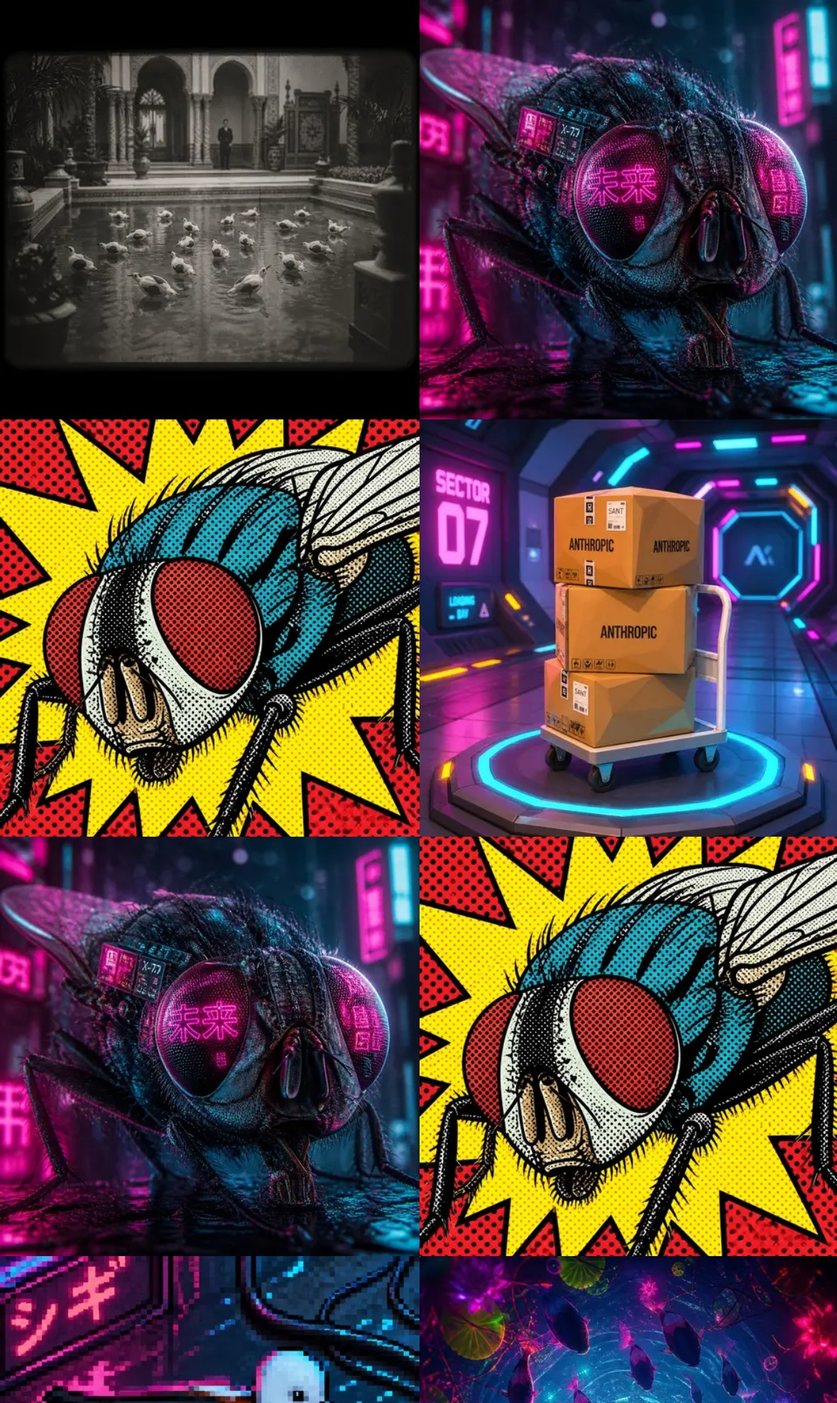
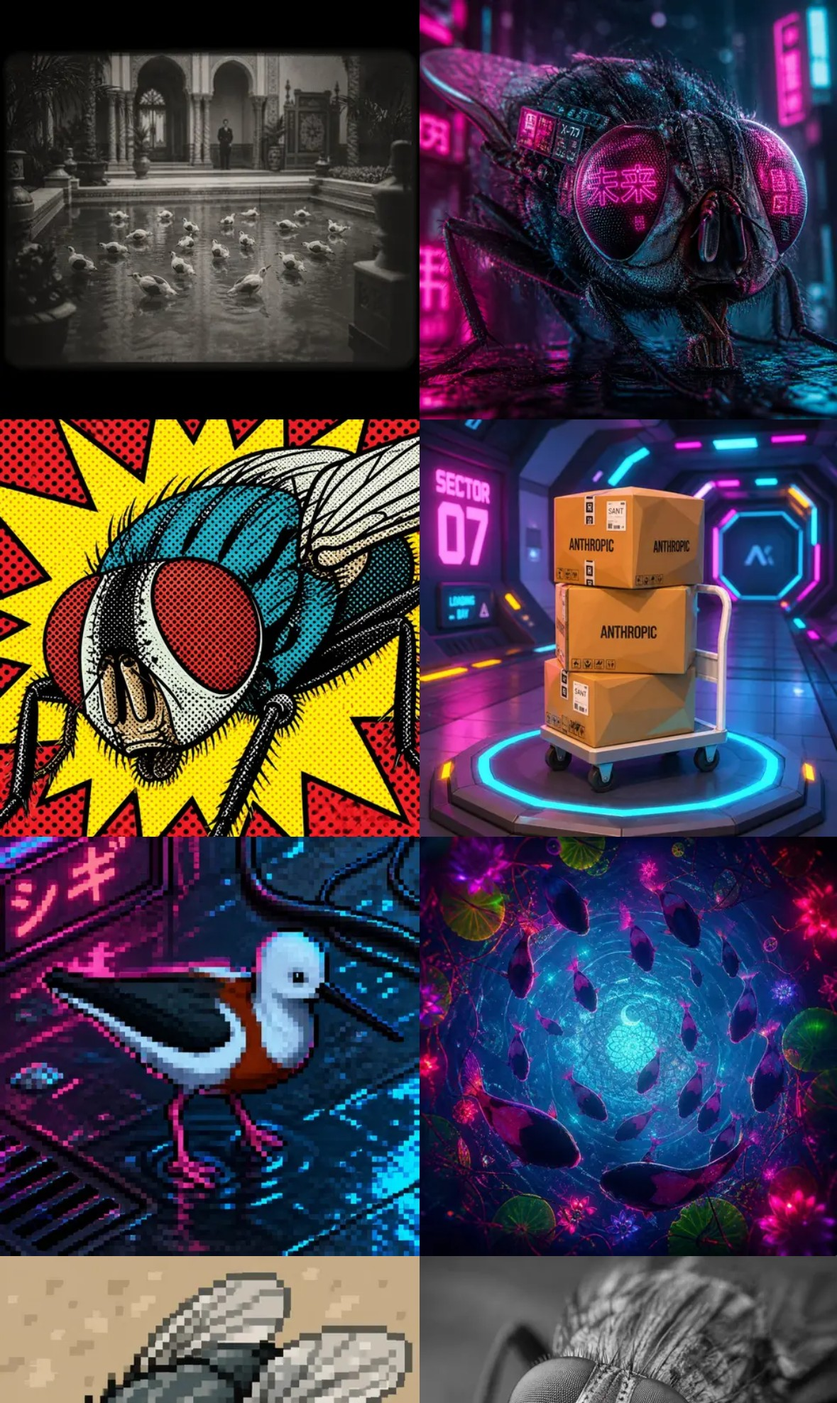
README screenshots show each sample image once
The dev stack has many more tiles than sample images, so the screenshots
repeated pictures. The screenshot run now cuts the listing down to one
tile per distinct picture and sizes the desktop window so the eight tiles
fill the grid exactly.

Claude-Session: https://claude.ai/code/session_01RsqJnwc1KhZgxetzj61D45

diff --git a/e2e/screenshots.spec.js b/e2e/screenshots.spec.js
@@ -1,25 +1,52 @@
-// Screenshots of the grid and the lightbox, at 2x on a 1440 px desktop and on
-// an iPhone. They go to artifacts/screenshots/; with E2E_SCREENSHOTS=1 they
+// Screenshots of the grid and the lightbox, at 2x on a desktop and on an
+// iPhone. They go to artifacts/screenshots/; with E2E_SCREENSHOTS=1 they
 // replace the committed ones in docs/screenshots/.
+//
+// The dev stack has many more tiles than sample images, so the same picture
+// comes up again and again. For the screenshots the listing is cut down to one
+// tile per distinct picture, and the desktop window is sized so that those
+// tiles fill the grid exactly (4 columns by 2 rows for 8 pictures).
+const crypto = require('crypto')
 const fs = require('fs')
 const path = require('path')
-const { test, expect, devices, viewportImagesLoaded } = require('./helpers')
+const { test, expect, devices, viewportImagesLoaded, basic } = require('./helpers')
 
 const dir = process.env.E2E_SCREENSHOTS
   ? path.join(__dirname, '..', 'docs', 'screenshots')
   : path.join(__dirname, 'artifacts', 'screenshots')
 
+const phone = devices['iPhone 15']
+// [name, context options, grid viewport, viewer viewport, device scale factor].
 const PROFILES = [
-  ['desktop-1440', { viewport: { width: 1440, height: 900 }, deviceScaleFactor: 2 }, [2880, 1800]],
+  ['desktop', { deviceScaleFactor: 2 }, { width: 1100, height: 550 }, { width: 1100, height: 800 }, 2],
   // The device profile brings its own viewport, scale factor (3) and user agent.
-  ['iphone', devices['iPhone 15'], [devices['iPhone 15'].viewport.width * 3, devices['iPhone 15'].viewport.height * 3]],
+  ['iphone', phone, phone.viewport, phone.viewport, 3],
 ]
 
-for (const [name, profile, [w, h]] of PROFILES) {
+// The listing reduced to the first tile of each distinct picture, told apart by
+// the bytes of the 240 px thumbnail.
+async function distinctTiles(request) {
+  const listing = await (await request.get('/api/tiles?limit=120', { headers: basic() })).json()
+  const seen = new Set()
+  const tiles = []
+  for (const t of listing.tiles) {
+    const body = await (await request.get(`/img/${t.key}-240.webp?v=${listing.v}`, { headers: basic() })).body()
+    const hash = crypto.createHash('sha256').update(body).digest('hex')
+    if (seen.has(hash)) continue
+    seen.add(hash)
+    tiles.push({ ...t, styles: [t.styles.find(x => x.key === t.key)] })
+  }
+  return { ...listing, tiles, next: null }
+}
+
+for (const [name, profile, gridView, viewerView, scale] of PROFILES) {
   test(`screenshots: ${name}`, async ({ browser, baseURL }, testInfo) => {
     fs.mkdirSync(dir, { recursive: true })
-    const context = await browser.newContext({ ...profile, baseURL, storageState: testInfo.project.use.storageState })
+    const context = await browser.newContext({ ...profile, viewport: gridView, baseURL, storageState: testInfo.project.use.storageState })
     const page = await context.newPage()
+    const listing = await distinctTiles(context.request)
+    expect(listing.tiles.length, 'one tile per sample image').toBe(8)
+    await page.route(/\/api\/tiles\?/, route => route.fulfill({ json: listing }))
     const errors = []
     page.on('console', m => { if (m.type() === 'error') errors.push(m.text()) })
     try {
@@ -29,17 +56,16 @@ for (const [name, profile, [w, h]] of PROFILES) {
       // Saved as JPEG (a PNG of photographs at this size is 4 to 6 MB); the
       // pixel size is checked on a PNG of the same screen.
       const size = buf => [buf.readUInt32BE(16), buf.readUInt32BE(20)] // PNG IHDR
-      const save = async file => {
-        expect(size(await page.screenshot())).toEqual([w, h])
+      const save = async (file, view) => {
+        expect(size(await page.screenshot())).toEqual([view.width * scale, view.height * scale])
         await page.screenshot({ path: path.join(dir, file), type: 'jpeg', quality: 90 })
       }
-      await save(`${name}-grid.jpg`)
+      await expect(page.locator('#grid .tile')).toHaveCount(8)
+      await save(`${name}-grid.jpg`, gridView)
 
-      // The lightbox, with its strip of neighbouring images.
-      const key = await page.evaluate(async () => {
-        const j = await (await fetch('/api/tiles?limit=60')).json()
-        return j.tiles.find(t => t.styles.length >= 3 && t.caption)?.key || j.tiles.find(t => t.styles.length >= 2).key
-      })
+      // The lightbox, with its strip of the other images.
+      await page.setViewportSize(viewerView)
+      const key = (listing.tiles.find(t => t.caption) || listing.tiles[0]).key
       await page.locator(`.tile[data-key="${key}"] a`).evaluate(a => a.click())
       await expect(page.locator('dialog#lb')).toBeVisible()
       await expect.poll(() => page.locator('#full').evaluate(i => i.complete && i.naturalWidth)).toBe(1024)
@@ -52,7 +78,7 @@ for (const [name, profile, [w, h]] of PROFILES) {
         })
         return seen.length > 0 && seen.every(i => i.complete && i.naturalWidth > 0)
       })).toBe(true)
-      await save(`${name}-lightbox.jpg`)
+      await save(`${name}-lightbox.jpg`, viewerView)
       expect(errors).toEqual([])
     } finally {
       await context.close()

diff --git a/README.md b/README.md
@@ -15,9 +15,9 @@ first, with infinite scroll and a full-size viewer.
   JavaScript and CSS, no framework, no build step). It links libvips through cgo,
   so libvips must be installed wherever it runs; the container image takes care of that.
 
-| Grid, 1440 px wide | Viewer |
+| Grid | Viewer |
 |---|---|
-| ![The grid on a desktop](docs/screenshots/desktop-1440-grid.jpg) | ![The viewer on a desktop](docs/screenshots/desktop-1440-lightbox.jpg) |
+| ![The grid on a desktop](docs/screenshots/desktop-grid.jpg) | ![The viewer on a desktop](docs/screenshots/desktop-lightbox.jpg) |
 
 Screenshots from the end-to-end tests, which run the real binary against a
 local stand-in for DynamoDB and Telegram that serves the sample images in
